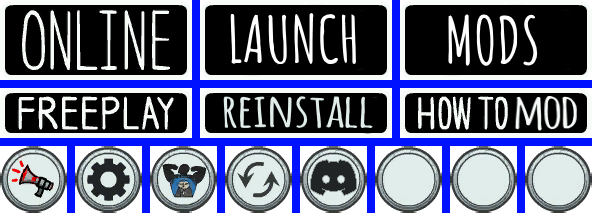
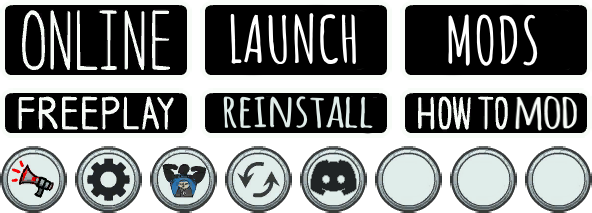
funyn light up

Changed region(s): [[0.0, 0.0, 1.0, 1.0]]

diff --git a/DRAPI-Mod-Manager/main.cpp b/DRAPI-Mod-Manager/main.cpp
@@ -19,7 +19,7 @@ using namespace std::filesystem;
 using json = nlohmann::json;
 
 VideoMode video(1280, 720);
-RenderWindow window(video, "DRAPI Mod Manager for Among Us");
+RenderWindow window(video, "DRAPI Mod Manager for Among Us", Style::Default, ContextSettings::ContextSettings(0, 0, 4, 1, 1, 0, false));
 LPCWSTR titlebutgoofy = L"DRAPI Mod Manager for Among Us";
 
 enum StateType {
@@ -30,7 +30,7 @@ enum StateType {
 	Progress  // the download progress screen, where you'll be until something finishes installing
 };
 
-Color bgcolor(15, 10, 25, 255);
+Color bgcolor(15, 10, 25, 255), white(255, 255, 255, 255), selected(0, 255, 0, 255);
 StateType curState = Title;
 
 string launcherdataURL = "https://cdn.discordapp.com/attachments/849292573230104576/1060836092003225681/launcher_latest.json";
@@ -59,6 +59,19 @@ void saveuserdata() {
 	ofstream writeee(userdatapath.string());
 	writeee << userdata.dump(4);
 	writeee.close();
+}
+
+FloatRect vz;
+Vector2i getMousePos() {
+	//if (!window.hasFocus())
+	//	return Vector2i(-100, -100);
+	Vector2i mp = Mouse::getPosition();
+	Vector2i wp = window.getPosition();
+	Vector2u ws = window.getSize();
+	Vector2i smp = Vector2i(mp.x - wp.x - 8, mp.y - wp.y - 30);
+	Vector2f perc = Vector2f((double)smp.x/(double)ws.x, (double)smp.y/(double)ws.y);
+	Vector2i mpiw = Vector2i(vz.width * perc.x, vz.height * perc.y);
+	return mpiw;
 }
 
 /*struct ModDependencyData {
@@ -98,10 +111,29 @@ string fixwstr(wstring& ogstr) {
 	return newstr;
 }
 
-void switchstate(StateType newstate) {
-	cout << "New state " << newstate << " found.\n";
-	StateType oldState = curState;
-	curState = newstate;
+int width = 1280, height = 720;
+void reposscene() {
+	float centx = width / 2, centy = height / 2;
+	switch (curState) {
+		case Setup:
+			break;
+		case Title:
+			break;
+		case Main: {
+				mm_logo.setPosition(Vector2f(centx - mm_logotex.getSize().x / 2, centy - mm_logotex.getSize().y - 25));
+
+				int offset = -(192/2);
+				mm_button_launch.setPosition(Vector2f(centx - 100 + offset, centy));
+				mm_button_mods.setPosition(Vector2f(centx + 100 + offset, centy));
+				mm_button_reinstall.setPosition(Vector2f(centx - 100 + offset, centy + 90));
+				mm_button_howtomod.setPosition(Vector2f(centx + 100 + offset, centy + 90));
+			}
+			break;
+		case Mods:
+			break;
+		case Progress:
+			break;
+	}
 }
 
 bool ends_with(string const& value, string const& ending)
@@ -228,14 +260,24 @@ bool locateexe() {
 	return false;
 }
 
+bool hoveringSprite(Vector2i& mp, Sprite& spr, int width, int height) {
+	Vector2i coolstuffs = Vector2i(mp.x - spr.getPosition().x, mp.y - spr.getPosition().y);
+	return !(coolstuffs.x < 0 || coolstuffs.y < 0 || coolstuffs.x > width || coolstuffs.y > height);
+}
+
 long lastCpuTime = 0;
 void update(float secondsPassed) {
+	Vector2i mp = getMousePos();
 	switch (curState) {
 		case Setup:
 			break;
 		case Title:
 			break;
 		case Main:
+			mm_button_launch.setColor(hoveringSprite(mp, mm_button_launch, 192, 80) ? selected : white);
+			mm_button_mods.setColor(hoveringSprite(mp, mm_button_mods, 192, 80) ? selected : white);
+			mm_button_reinstall.setColor(hoveringSprite(mp, mm_button_reinstall, 192, 50) ? selected : white);
+			mm_button_howtomod.setColor(hoveringSprite(mp, mm_button_howtomod, 192, 50) ? selected : white);
 			break;
 		case Mods:
 			break;
@@ -348,6 +390,22 @@ void scenesetup_mainmenu() {
 	mm_button_mods.setPosition(Vector2f(200, 0));
 	mm_button_reinstall.setPosition(Vector2f(0, 90));
 	mm_button_howtomod.setPosition(Vector2f(200, 90));
+
+	reposscene();
+}
+
+void switchstate(StateType newstate) {
+	cout << "New state " << newstate << " found.\n";
+	StateType oldState = curState;
+	curState = newstate;
+
+	switch (newstate) {
+	case Main:
+		scenesetup_mainmenu();
+		break;
+	}
+
+	reposscene();
 }
 
 void render() {
@@ -359,7 +417,8 @@ void render() {
 		case Title:
 			break;
 		case Main:
-			scenesetup_mainmenu();
+			if (!mm_setup)
+				return;
 
 			window.draw(mm_logo);
 
@@ -479,6 +538,14 @@ int main() {
 					break;
 				case Event::Resized:
 					cout << "Resize window!\n";
+					bool aspect_height = e.size.width > e.size.height;
+					double aspect = aspect_height ? ((double)e.size.width / e.size.height) : ((double)e.size.height / e.size.width);
+					cout << "Aspect ratio: " << aspect << " " << aspect_height << endl;
+					vz = FloatRect(0, 0, aspect_height ? (720 * aspect) : 1280, aspect_height ? 720 : (1280 * aspect));
+					window.setView(View(vz));
+					width = vz.width;
+					height = vz.height;
+					reposscene();
 					break;
 			}
 		}
